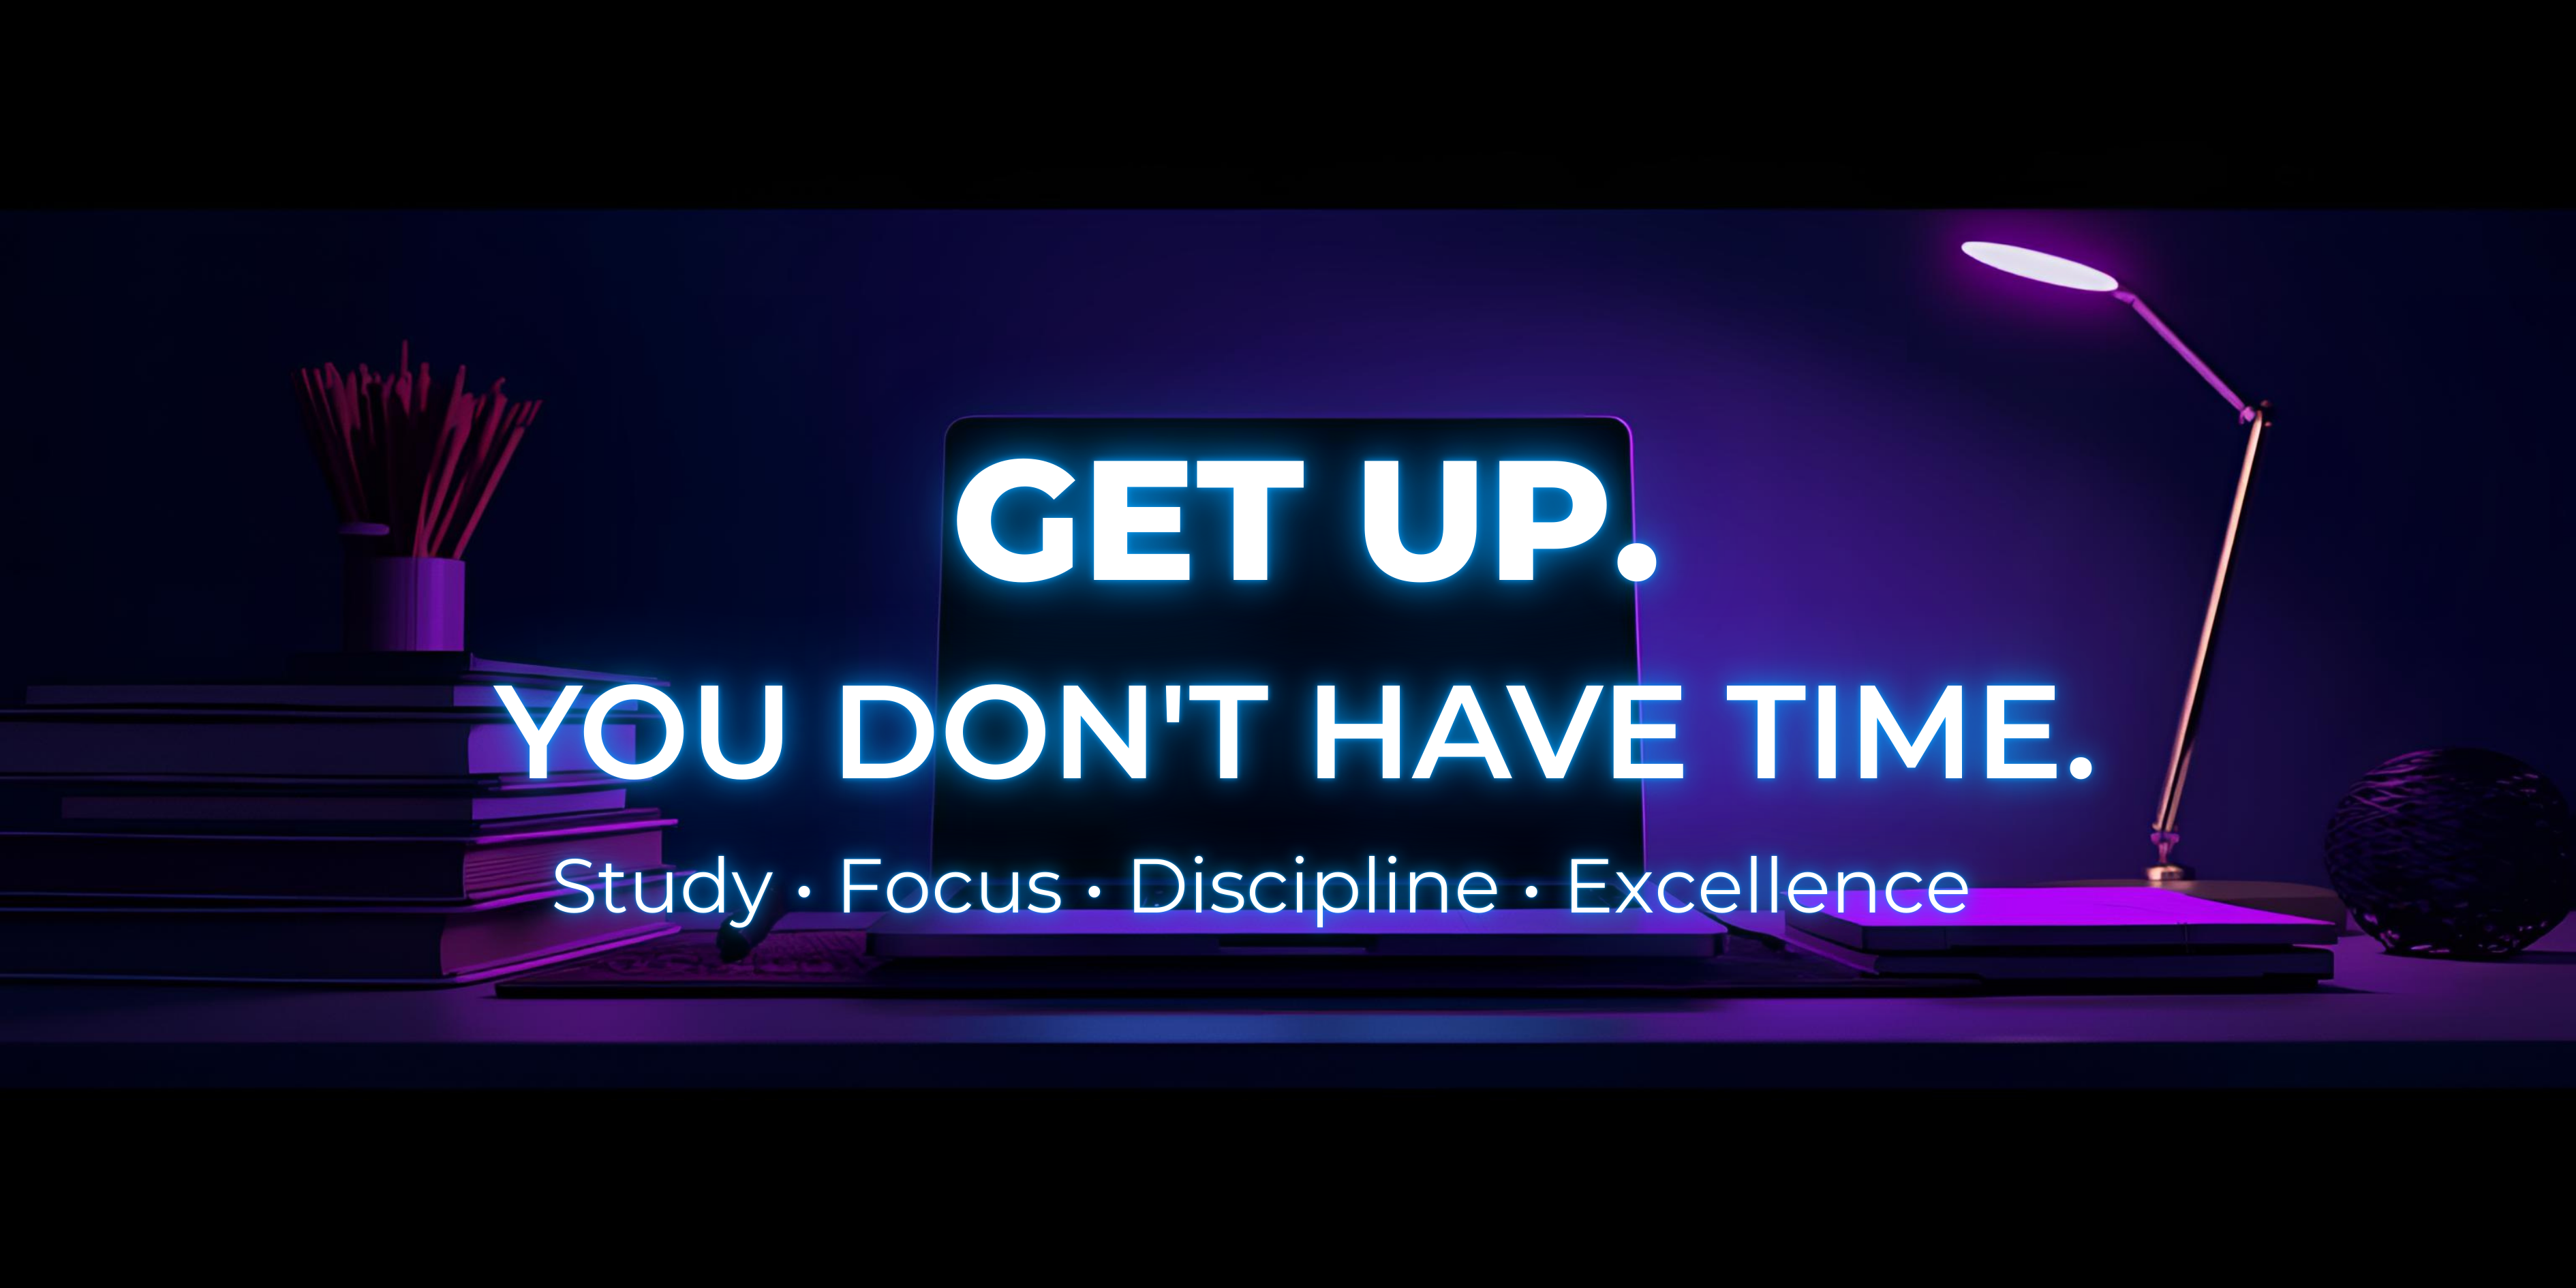
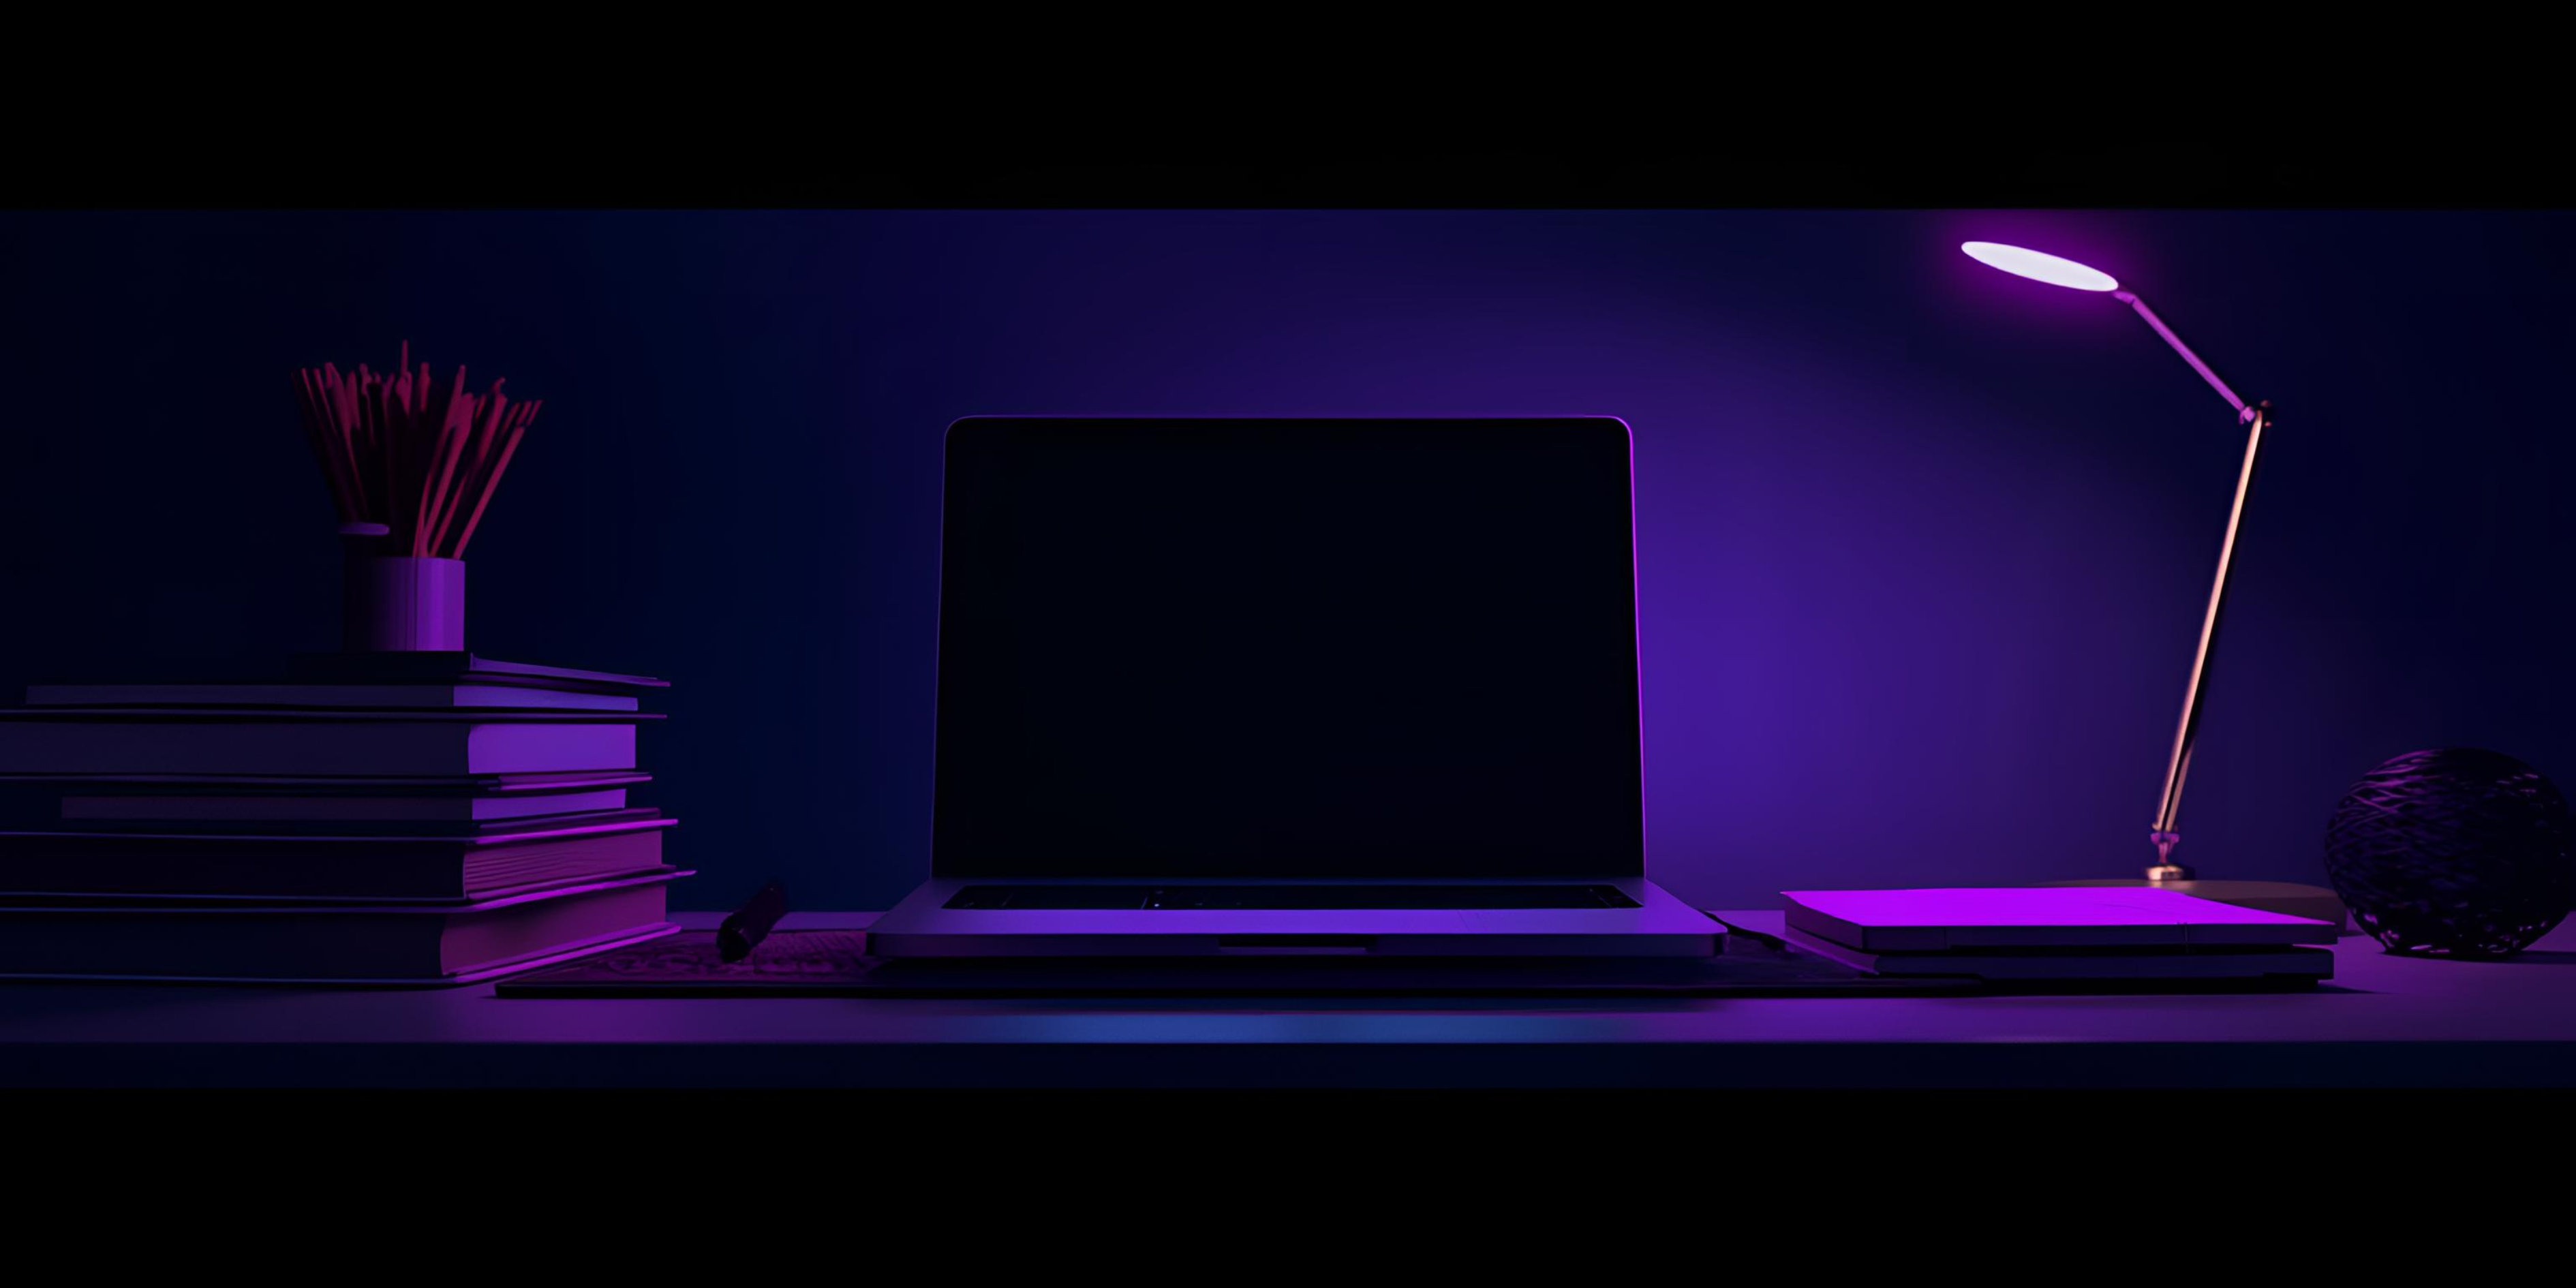
Add files via upload

Changed region(s): [[0.1873, 0.3122, 0.8116, 0.6243], [0.1873, 0.6556, 0.7804, 0.7492]]

diff --git a/aboutme.html b/aboutme.html
@@ -1,13 +1,14 @@
-<!DOCTYPE html>
+<!DOCTYPE html>
 <html lang="en">
 <head>
     <meta charset="UTF-8">
     <meta name="viewport" content="width=device-width, initial-scale=1.0">
-    <link rel="stylesheet" href="styles.css" />
+    <link href="https://fonts.googleapis.com/css2?family=Cormorant+Garamond:ital,wght@0,400;0,500;0,600;0,700;1,500;1,600&family=Outfit:wght@300;400;500;600;700&display=swap" rel="stylesheet">
+<link rel="stylesheet" href="styles.css" />
     <title>My Blog</title>
     <style>
         body {
-            font-family: Arial, sans-serif;
+            font-family: 'Outfit', sans-serif;
             margin: 0;
             padding: 0;
             line-height: 1.6;
@@ -121,7 +122,7 @@ p{
  <div class="header-spacer"></div> <!-- Pushes content down -->
   <!-- Sidebar for Mobile -->
   <div class="sidebar" id="sidebar">
-    <a href="javascript:void(0)" onclick="toggleSidebar()">✕ Close</a>
+    <a href="javascript:void(0)" onclick="toggleSidebar()">âœ• Close</a>
     <a href="index.html" onclick="toggleSidebar()">Home</a>
     <a href="productivity.html" onclick="toggleSidebar()">Study</a>
     <a href="lifestyle.html" onclick="toggleSidebar()">Lifestyle</a>
@@ -139,7 +140,7 @@ p{
     <div class="container" id="home">
         <div class="blog-post">
             <h2 class="p1">Heyyyy there...</h2>
-            <p>My name is <b>Nyasha Unami Zuva</b>, and I’m the founder of Life On A Deadline — a digital space dedicated to helping students stay productive, organized, and inspired. As a student balancing academics, personal goals, and everyday responsibilities, I understand how overwhelming life can get. That’s why I created this platform: to offer tools and support for managing your time, building self-discipline, and staying focused — even when deadlines pile up.</p>
+            <p>My name is <b>Nyasha Unami Zuva</b>, and Iâ€™m the founder of Life On A Deadline â€” a digital space dedicated to helping students stay productive, organized, and inspired. As a student balancing academics, personal goals, and everyday responsibilities, I understand how overwhelming life can get. Thatâ€™s why I created this platform: to offer tools and support for managing your time, building self-discipline, and staying focused â€” even when deadlines pile up.</p>
             <h2>Vision for Life On A Deadline</h2>
 			<p>My long-term goal is to grow Life On A Deadline into a go-to platform that empowers students around the world to take control of their lives through smart systems and self-management tools. I hope to expand the site with more interactive resources, collaborate with experts, and eventually turn it into a community that makes productivity feel less lonely and more achievable.
 
@@ -322,7 +323,7 @@ p{
   z-index: 9999;
   cursor: pointer;
 ">
-  💬 Chat with<br>L.O.A.D Ai
+  ðŸ’¬ Chat with<br>L.O.A.D Ai
 </button>
 
 <script type="module">
@@ -341,7 +342,7 @@ p{
             chatbotId: "czT4oi2tu5sm0RW2n0-iC",
             welcomeMessage: "Welcome to L.O.A.D! What can I help you improve today?",
             theme: {
-              buttonBackgroundColor: "#6A0DAD",
+              buttonBackgroundColor: "#4b2aad",
               buttonTextColor: "#ffffff"
             }
           };
@@ -364,7 +365,7 @@ p{
         }
       } else {
         // User is not logged in
-        alert("👋 Hey loves, you need a free account to chat with the L.O.A.D Assistant. Please log in or sign up 💜");
+        alert("ðŸ‘‹ Hey loves, you need a free account to chat with the L.O.A.D Assistant. Please log in or sign up ðŸ’œ");
       }
     };
   });
@@ -376,6 +377,7 @@ p{
  
 </body>
 <footer>
-    &copy; 2025 Life On A Deadline. Built with action.
+    &copy; 2026 Life On A Deadline. Built with action.
   </footer>
 </html>
+

diff --git a/become-a-tutor.html b/become-a-tutor.html
@@ -1,4 +1,4 @@
-<!DOCTYPE html>
+<!DOCTYPE html>
 <html lang="en">
 <head>
   <meta charset="UTF-8">
@@ -7,7 +7,7 @@
 
   <style>
     body {
-      font-family: 'Poppins', Arial, sans-serif;
+      font-family: 'Outfit', 'Outfit', sans-serif;
       background: #f7f9fc;
       margin: 0;
       padding: 0;
@@ -69,6 +69,8 @@
       color: #777;
     }
   </style>
+  <link href="https://fonts.googleapis.com/css2?family=Cormorant+Garamond:ital,wght@0,400;0,500;0,600;0,700;1,500;1,600&family=Outfit:wght@300;400;500;600;700&display=swap" rel="stylesheet">
+  <link rel="stylesheet" href="styles.css" />
 </head>
 
 <body>
@@ -76,7 +78,7 @@
   <div class="container">
 
     <div class="header">
-      <h1>👩🏫 Become a Tutor</h1>
+      <h1>ðŸ‘©â€ðŸ« Become a Tutor</h1>
       <p>
         Join <strong>Life On A Deadline</strong> as a vetted student tutor and get
         connected with students seeking academic support through a safe and structured platform.
@@ -84,24 +86,25 @@
     </div>
 
     <div class="info-box">
-      ✔ Applications are reviewed before onboarding<br>
-      ✔ No payment is required at this stage<br>
-      ✔ Approved tutors activate their profile with a once-off P50 deposit
+      âœ” Applications are reviewed before onboarding<br>
+      âœ” No payment is required at this stage<br>
+      âœ” Approved tutors activate their profile with a once-off P50 deposit
     </div>
 
     <div class="form-box">
       <!-- GOOGLE FORM EMBED -->
       <iframe
         src="https://forms.gle/2J8etJptmt9NY6yL9">
-        Loading…
+        Loadingâ€¦
       </iframe>
     </div>
 
     <div class="footer-note">
-      Life On A Deadline — Built to help students succeed
+      Life On A Deadline â€” Built to help students succeed
     </div>
 
   </div>
 
 </body>
 </html>
+